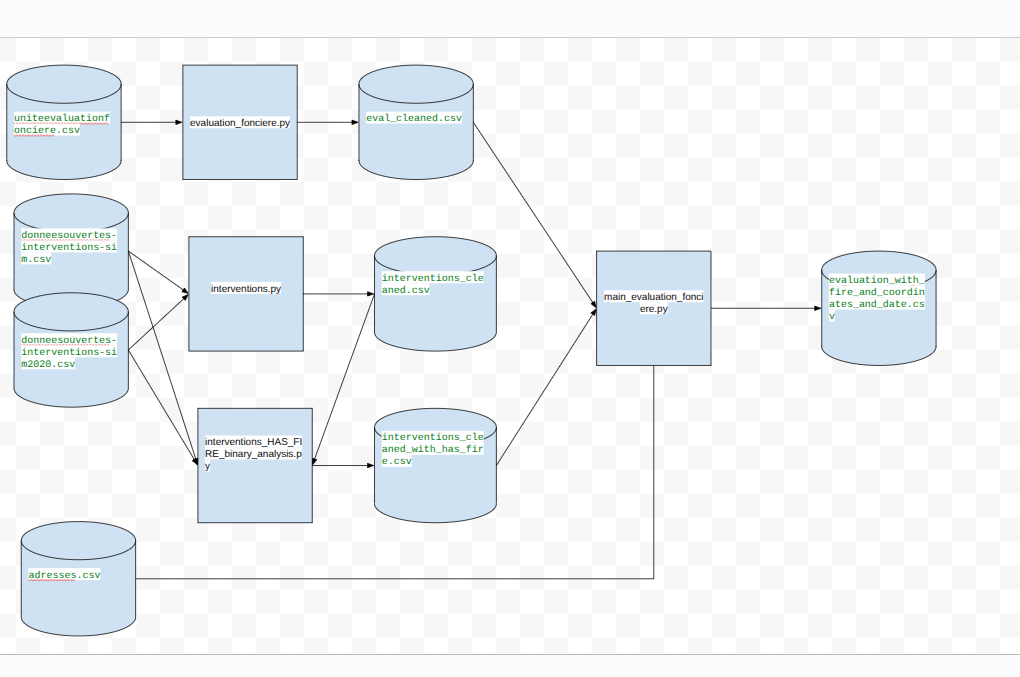
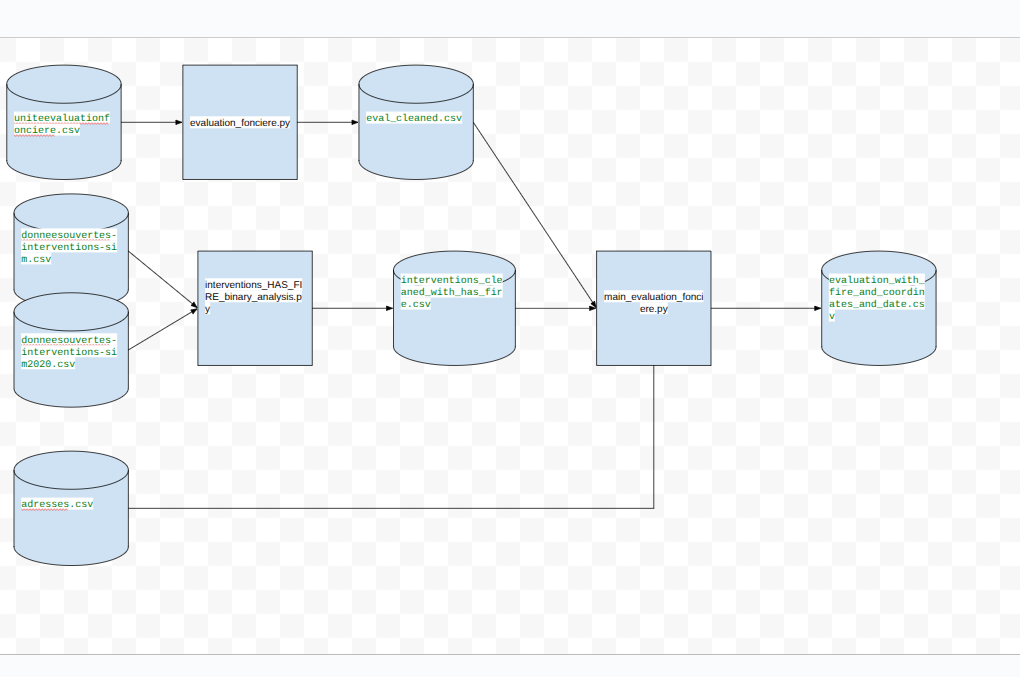
Remove unused files

diff --git a/dataprep/interventions_HAS_FIRE_binary_analysis.py b/dataprep/interventions_HAS_FIRE_binary_analysis.py
@@ -8,7 +8,6 @@ from typing import Union #allows to specific "or" conditions for argument types
 from datetime import datetime
 
 
-ORIGINAL_FILE_NAME_INTERVENTIONS_CLEANED = './datasets/cleaned/interventions_cleaned.csv'
 DESTINATION_FILE_NAME = './datasets/cleaned/interventions_cleaned_with_has_fire.csv'
 ORIGINAL_FILE_NAME_2023_2025 = './datasets/raw/donneesouvertes-interventions-sim.csv'
 ORIGINAL_FILE_NAME_2022_BEFORE = './datasets/raw/donneesouvertes-interventions-sim2020.csv'
